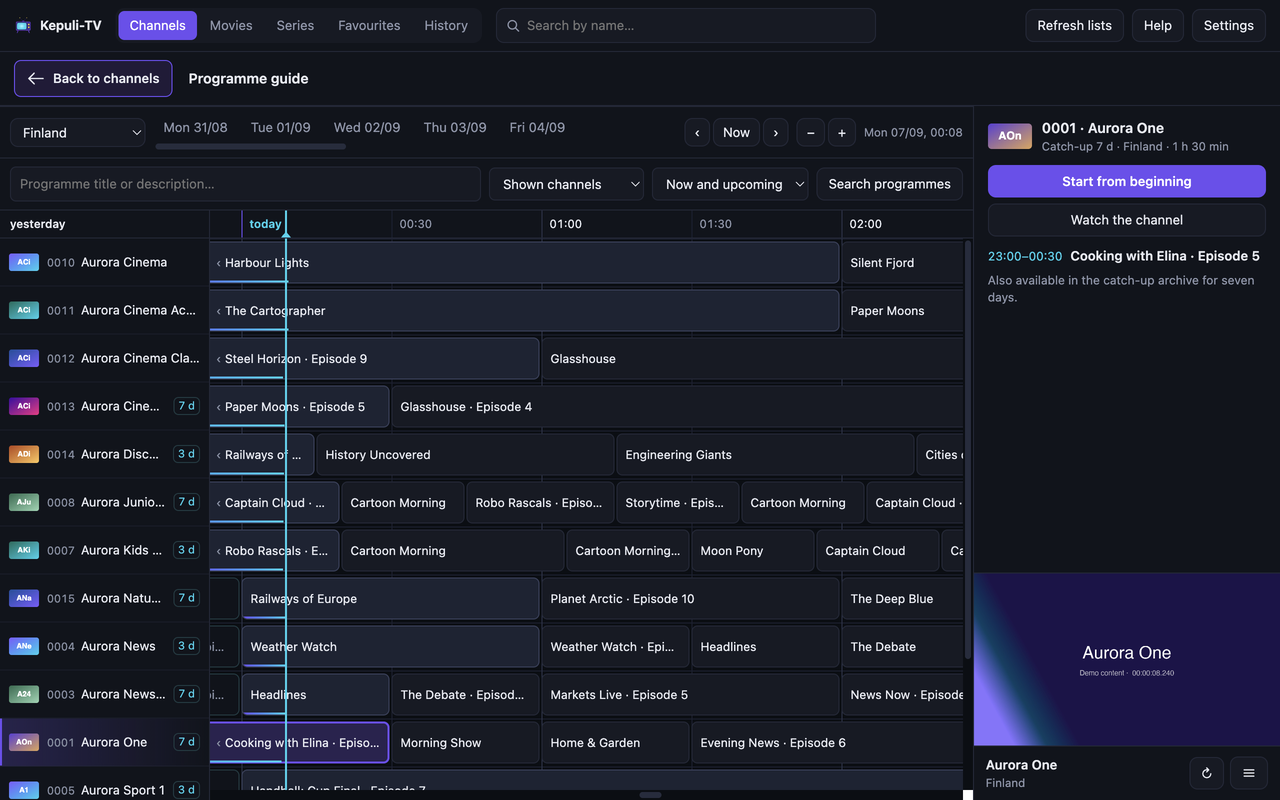
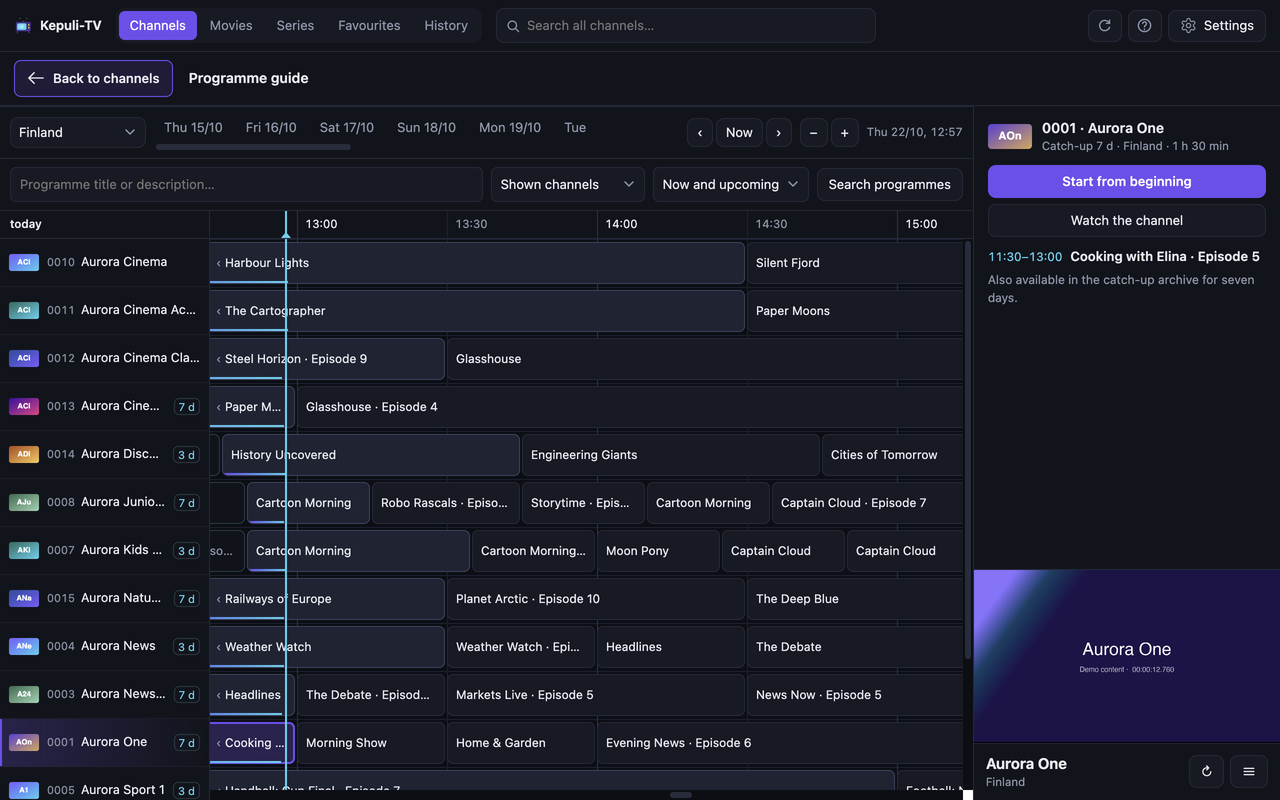
Take both stores' screenshots again for the new look
The five Chrome and five Firefox pictures show the covers, the rows'
logos and bars and the top bar's marks. The listing's features gain the
release's five lines, worded so that no word reaches five uses, and an
older fifth "browser" goes too. FIREFOX.md records the redraw's checks
under 1.2.0, which has not been published to either store yet.

Claude-Session: https://claude.ai/code/session_017Qv3XEQw8vc7RjLVXSTofA

diff --git a/brand/firefox-screenshots/README.md b/brand/firefox-screenshots/README.md
@@ -2,7 +2,7 @@
 
 Captured by `KEPULI_BROWSER=firefox node dev/store-screenshots.mjs` — the
 same walk that makes the Chrome set, driven through Marionette instead of
-DevTools — in Firefox 155 on macOS, using an isolated test profile and the
+DevTools — in Firefox 157 on macOS, using an isolated test profile and the
 local `dev/mock/server.mjs` fixture. All channels, titles, artwork and video
 are fictional demo content. No customer account or hosted demo service was
 used.
@@ -18,4 +18,4 @@ would need a 2560 × 1600 window — so this set is captured at 1×.
 | 02-guide.png | Explore the programme guide while playback continues in the mini-player. Shown with fictional demo content in Firefox. |
 | 03-series.png | Browse series details, seasons and episodes. Shown with fictional demo content in Firefox. |
 | 04-subtitles.png | Play an MKV episode with text subtitles and choose their language and size. Shown with fictional demo content in Firefox. |
-| 05-movie.png | Watch a movie with its description and details beside your catalogue. Shown with fictional demo content in Firefox. |
+| 05-movie.png | Watch a movie with its description and details beside your catalogue, shown as covers. Shown with fictional demo content in Firefox. |

diff --git a/FIREFOX.md b/FIREFOX.md
@@ -24,6 +24,12 @@ add-on: the player closed, and background.js opened it again at the address
 it had left. Chrome's DevTools-loaded extension does not come back from
 `runtime.reload()`, so that path has no automatic check there.
 
+The same release redraws the player: films and series as covers, larger
+channel logos, progress bars that line up, an empty player that offers what
+was left halfway, and marks in the top bar. In Chrome the whole suite passed
+again; in Firefox 157 `catalogUi` (covers, then the list) and
+`continuewatching` passed, and both stores' screenshots were taken again.
+
 ## Release 1.0.9 verification
 
 The shared dialog changes were checked on 2026-09-06 in Firefox 155 on macOS
